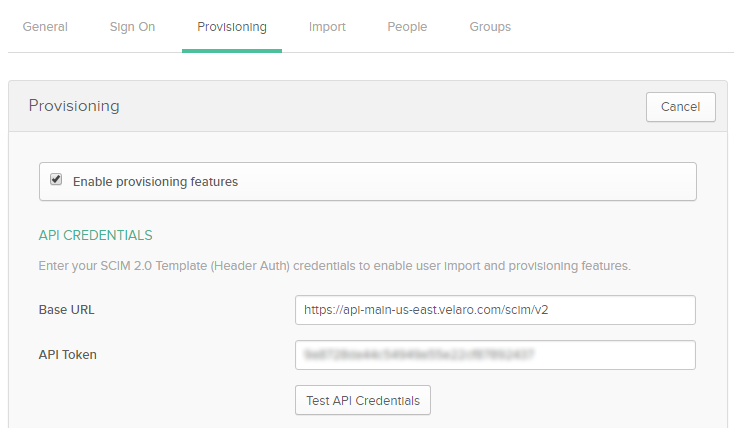
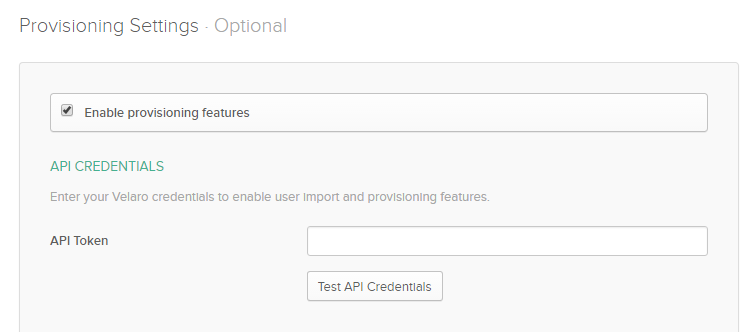
update provisioning docs

diff --git a/provisioning.html b/provisioning.html
@@ -55,10 +55,14 @@
           <p><img src="images/scim01.png"></p>
         </li>
         <li>
-          <p>Enable provisioning features, and paste the Base URL and the API Token into the Provisioning tab in Okta.</p>
+          <p>Enable provisioning features, and paste the API Token into the Provisioning settings in Okta.</p>
           <p><img src="images/scim02.png"></p>
         </li>
         <li><p>Click the "Test API Credentials" button to verify the token and base URL are configured correctly.</p></li>
+        <li>
+          <p>Enable "Create Users" and "Deactivate Users"</p>
+          <p><img src="images/scim03.png"></p>
+        </li>
       </ol>
     </section>
   </div>
